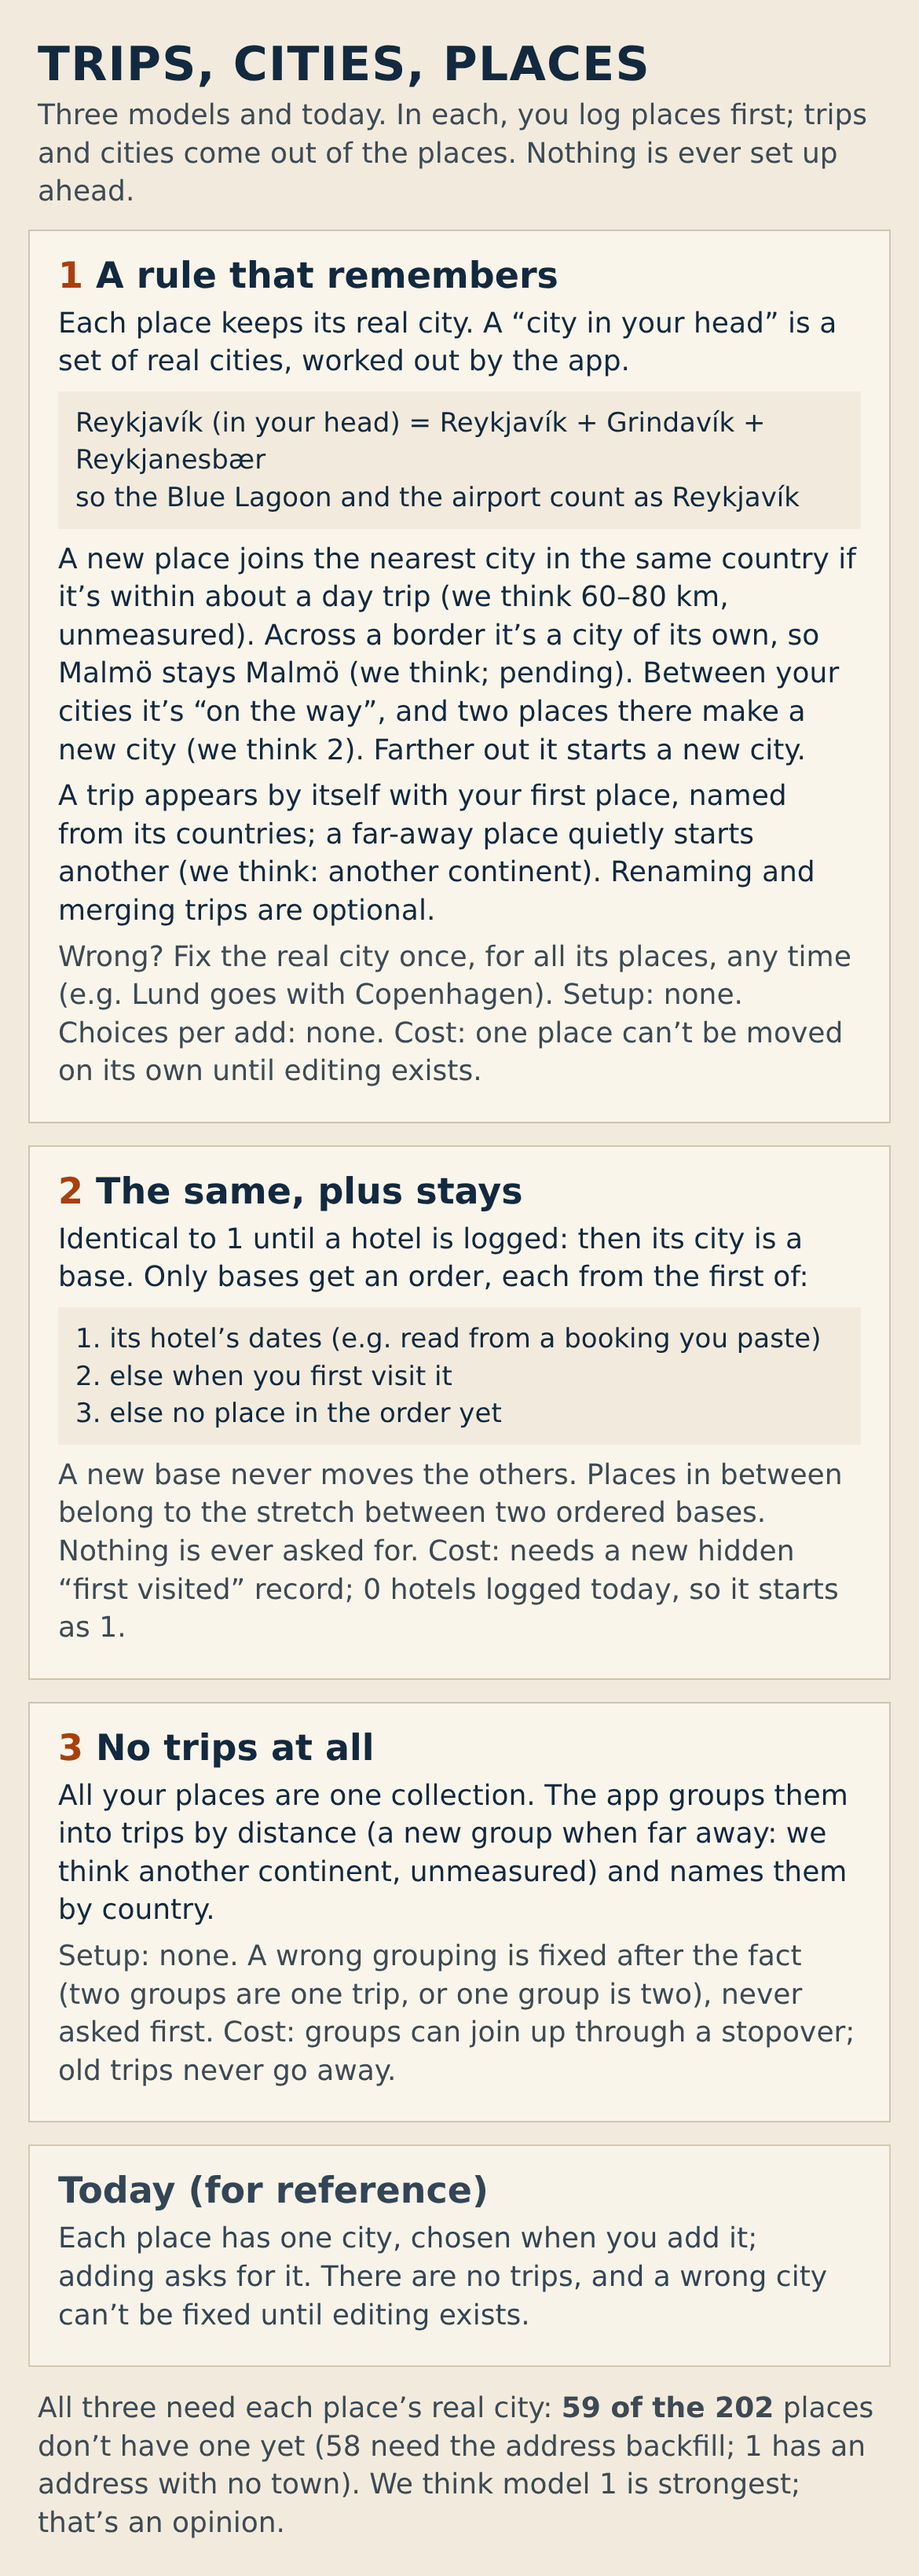
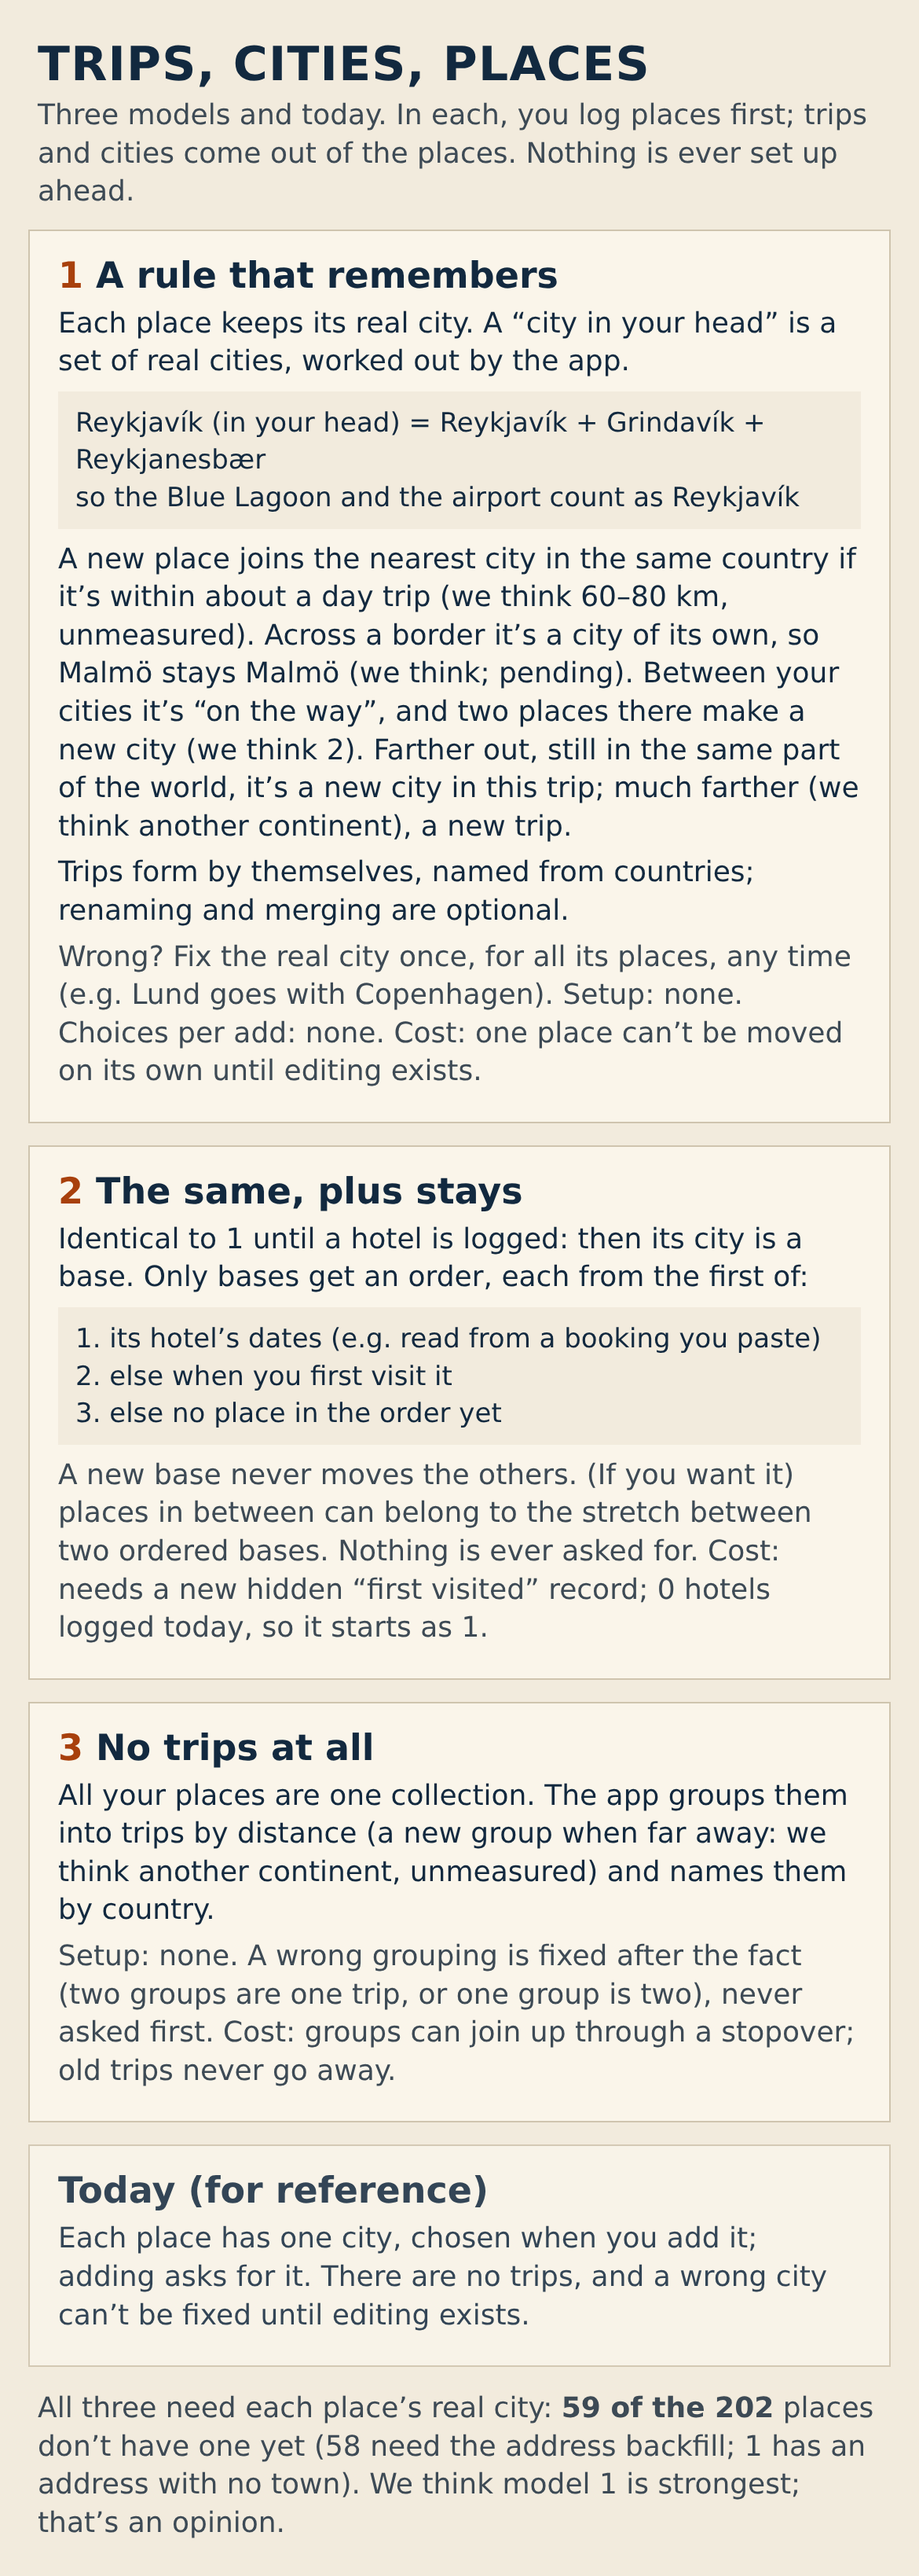
trip-model: Turn 16 overview + legs-off default
Claude-Session: https://claude.ai/code/session_01KJurQQYHfCNMLJBzKaXeDY

Changed region(s): [[0.0615, 0.2801, 0.9231, 0.3735], [0.0615, 0.5603, 0.8923, 0.6536]]

diff --git a/design/trip-location-model/concepts/2-rule-plus-stays.md b/design/trip-location-model/concepts/2-rule-plus-stays.md
@@ -11,7 +11,9 @@ opinion.
 - **Base:** a figure that contains at least one stay.
 - **Order:** an order of the trip's **bases**. It exists only when the
   trip has at least two bases.
-- **Leg:** the stretch between two consecutive *ordered* bases.
+- **Leg (off by default):** the stretch between two consecutive
+  *ordered* bases. It only exists if the owner asks for it in Q4
+  (director, Turn 15).
 
 ## Stored vs. inferred
 
@@ -19,7 +21,7 @@ opinion.
 |---|---|
 | concept 1's | bases (from stays) |
 | a stay's date range, when it has one | the order of the bases (rule below) |
-| per place: **when it was first marked visited** (a new field; today `visited` is yes/no, and `updated_at` can't stand in) | which leg an On-the-way place sits on |
+| per place: **when it was first marked visited** (a new field; today `visited` is yes/no, and `updated_at` can't stand in) | (only with legs on) which leg an On-the-way place sits on |
 
 ## The ordering rule (one source per base, never all-or-nothing)
 
@@ -37,27 +39,25 @@ opinion.
 - Nothing is ever asked for. Dates and visits are things already done
   (where dates come from: jobs.md "Dates").
 
-## Where everything sits once there's an order
+## Where everything sits once there's an order (default: no legs)
 
 - **Bases:** in order.
+- **No-figure places:** stay **On the way**, as in concept 1. There are no
+  legs by default.
 - **A figure that isn't a base** (Malmö with no hotel): it stays a
   figure. It sits right after the ordered base whose anchor is nearest
   to it (it's never folded into that base).
-- **"Between two bases":** a no-figure place sits on the leg whose
-  straight line (anchor to anchor) is nearest to it, if it's within the
-  trip's spread.
-- **A no-figure place on no leg** (only one ordered base, or beyond the
-  first or last base): it stays **On the way**, as in concept 1.
+- **Only if the owner asks for legs (Q4):** a no-figure place sits on
+  the leg whose straight line (anchor to anchor) is nearest to it, within
+  the trip's spread. A no-figure place on no leg (only one ordered base,
+  or beyond the ends) stays On the way.
 - **Views (job 12):** unchanged from concept 1. They're a trip, a
   figure, On the way, or nothing yet.
-  - A leg is **not** a view of its own. Its places are a group inside the
-    trip view, in order between its two bases.
-  - On the way remains a view for the places on no leg.
-
-**Can it be simpler?** Yes, by dropping legs: order bases only, and keep
-every no-figure place in On the way. That costs job 9's "between" being
-specific (Jönköping is just "on the way"), and halves the rules. **(We
-think)** legs are worth it only if the owner answers Q4 with dates.
+  - With legs on, a leg is **not** a view of its own. Its places are a
+    group inside the trip view, in order between its two bases.
+  - On the way remains a view.
+- **(We think)** legs earn their extra rule only if the owner wants a
+  dated order, so they're off unless the owner asks in Q4.
 
 ## What can be corrected, and when
 
@@ -79,7 +79,7 @@ place's figure).
 |---|---|---|---|
 | C7 | A stay, the first (Copenhagen) | Copenhagen is a base. One base, so no order, no legs. Nothing else changes | PASS |
 | C7b | Another stay, another figure, undated, unvisited | That figure is a base with no position. Nothing else moves | PASS |
-| C7c | Bases dated (or first visited) | Those bases take positions; legs run between consecutive ordered bases; On-the-way places nearest a leg move onto it | PASS |
+| C7c | Bases dated (or first visited) | Those bases take positions, and the trip view follows that order. No-figure places stay On the way (with legs on, if the owner asked: on the nearest leg) | PASS |
 | C7d | No dates, the trip under way | Bases take positions as you first visit them | PASS |
 
 ## Test cases
@@ -88,17 +88,18 @@ place's figure).
 |---|---|---|
 | T1 Øresund | As concept 1 | as concept 1 |
 | T2 airports | As concept 1. An airport has a figure, so it's never on a leg | PASS |
-| T3 Jönköping | Copenhagen and Stockholm are consecutive ordered bases → on their leg (it's nearest that line). Otherwise → On the way | PASS |
+| T3 Jönköping | On the way (default). With legs on and Copenhagen and Stockholm as consecutive ordered bases → on their leg | PASS |
 
 ## Jobs (only where they differ from concept 1)
 
 - **2:** the trip view follows the order when there is one.
-- **9:** a leg when ordered; On the way otherwise.
+- **9:** On the way (a leg only if the owner turns legs on).
 - **14:**
   - (a) no stay → identical to concept 1, visits or not;
   - (b) an undated, unvisited stay → a base with no position, nothing
     else moves;
-  - (c) dated (or visited) bases → order and legs.
+  - (c) dated (or visited) bases → an order (legs only if the owner
+    asks).
 
 ## Prerequisite
 
@@ -110,5 +111,7 @@ new "first visited at" field.
 
 3 (hotels as places or frame); 4: "Should the app put your trip in
 order? It could use your hotel dates (read from a booking you paste),
-the order you actually visit places, both, or neither. (We think both,
-with hotel dates first.)" Plus concept 1's.
+the order you actually visit, both, or neither. If it has an order,
+should places in between sit on the stretch between two stays? (We
+think both sources, hotel dates first, and stretches only if you want
+dates.)" Plus concept 1's.

diff --git a/design/trip-location-model/jobs.md b/design/trip-location-model/jobs.md
@@ -80,6 +80,8 @@ team's opinion):
   - only bases are ordered, each by its stays' earliest date, else its
     first visit, else not at all;
   - a leg is the stretch between two consecutive ordered bases.
+    **Legs are off by default**; they exist only if the owner asks for
+    them (Q4, Turn 15).
 
 ## Jobs
 
@@ -114,11 +116,10 @@ team's opinion):
 9. **Places in between have a home.**
    - Check: PASS if a place beyond every reach but inside the spread
      (Jönköping) belongs to a named group, not to an arbitrary figure:
-     - **On the way** (concepts 1 and 3, and concept 2 without an
-       order);
-     - or, in concept 2 with an order, **the leg** whose line between
-       two ordered bases is nearest to it. Places on no leg stay in On
-       the way.
+     - **On the way** (all concepts, by default);
+     - or, only in concept 2 with legs turned on and an order, **the
+       leg** whose line between two ordered bases is nearest to it.
+       Places on no leg stay in On the way.
 10. **Other trips stay out of the way** (concepts 1 and 2), **or
     everything is visible at once** (concept 3).
     - Check (1, 2): PASS if another trip's places never mix into this
@@ -145,8 +146,9 @@ team's opinion):
       not.
     - (b) A new undated, unvisited stay makes its figure a base with no
       position. Nothing else moves.
-    - (c) Bases with a date (or a first visit) take positions in order;
-      legs run between consecutive ordered bases.
+    - (c) Bases with a date (or a first visit) take positions in order.
+      No-figure places stay On the way (legs only if the owner turns
+      them on).
     - No date is ever asked for.
 
 ## Creation moments (each checked against P)
@@ -167,9 +169,9 @@ team's opinion):
 
 | Case | PASS if |
 |---|---|
-| **T1 Øresund:** Saltholm, Kastrup Søbad (both in Tårnby municipality; Saltholm's we believe, not verified) | both are in the Copenhagen figure with nothing chosen, **and** putting Tårnby with Malmö is **one** change that moves both (Malmö must already be a figure: the border signal, or the owner's one fix) |
+| **T1 Øresund:** Saltholm, Kastrup Søbad (both in Tårnby municipality; Saltholm's we believe, not verified) | **Both branches must hold:** (i) **border on:** both are in the Copenhagen figure with nothing chosen; Malmö is already a figure; putting Tårnby with Malmö is **one** change that moves both. (ii) **border off:** both are in the Copenhagen figure with nothing chosen; Malmö first has to be made a figure (one change), then putting Tårnby with Malmö is one more: **two changes**, each moving every place of its real city. FAIL if either branch needs a per-place change |
 | **T2 The airport:** Keflavík (Reykjanesbær, about 50 km from Reykjavík); Kastrup (Tårnby), for both Copenhagen and Malmö | Keflavík is in Reykjavík with nothing chosen. Kastrup is in Copenhagen, **and in Malmö too after one change** (Tårnby in both figures). In concept 2 an airport has a figure, so it's never on a leg |
-| **T3 Jönköping:** about 300 km from both Stockholm and Malmö | it's in **On the way**. In concept 2, with Copenhagen and Stockholm as consecutive ordered bases, it's on their leg. A second Jönköping place makes it a figure (C4) |
+| **T3 Jönköping:** about 300 km from both Stockholm and Malmö | it's in **On the way** (all concepts, by default). Only in concept 2 with legs turned on and Copenhagen and Stockholm as consecutive ordered bases: on their leg. A second Jönköping place makes it a figure (C4) |
 
 Reference (today): it fails P and jobs 1-10 and 13, and passes 11 (list
 and map share the same filtered set) and 12.

diff --git a/design/trip-location-model/jam.md b/design/trip-location-model/jam.md
@@ -1761,3 +1761,39 @@ before the send:
 NEXT: product designer (systems focus) — the overview's three edits and
 the no-legs default in concept 2's file; then the fresh checker re-runs
 the changed ids (T1 both branches).
+
+## Turn 16 -- product designer (systems focus): Turn 15 applied
+
+- **Overview** (`concepts/overview-3x.png`, re-rendered at 1170x3277,
+  checked at phone size):
+  1. Card 1 separates the two distances: "Farther out, still in the same
+     part of the world, it's a new city in this trip; much farther (we
+     think another continent), a new trip."
+  2. Card 1's trip paragraph is one line: "Trips form by themselves,
+     named from countries; renaming and merging are optional." The
+     border sentence keeps "pending".
+  3. Card 2: "(If you want it) places in between can belong to the
+     stretch between two ordered bases."
+- **Concept 2: legs off by default.**
+  - A leg exists only if the owner asks for it in Q4.
+  - No-figure places stay On the way by default.
+  - C7c, T3, and jobs 9 and 14(c) are reworded to match.
+- **Questions:**
+  - Q4 is reworded (the "stretch between two stays" clause added) in
+    concept 2's file;
+  - Q8 (the border) is added to concept 1's open questions (concepts 2
+    and 3 point to concept 1's).
+  - The full list of eight is in Turn 15.
+- **jobs.md:**
+  - Terms: legs are off by default.
+  - Job 9 and T3: On the way by default; a leg only with legs on.
+  - 14(c): an order, no legs unless turned on.
+  - **T1 has both branches:** border on, one change; border off, two
+    changes (make Malmö a figure, then move Tårnby), each per real city
+    and never per place.
+
+**Changed ids for the checker:** 9, 14, C7, T1 (both branches), T3;
+plus concept 2's 2 and 12 (the no-legs default), and the overview.
+
+NEXT: fresh checker — re-run those ids (T1 both branches); then the
+director releases the send.

diff --git a/design/trip-location-model/concepts/1-rule-that-remembers.md b/design/trip-location-model/concepts/1-rule-that-remembers.md
@@ -173,4 +173,9 @@ short-address backfill covers them, they're filed by location alone
 ## Open (owner questions)
 
 1 (fix the rule or one place), 2 (a place in two figures), 6 (a quiet
-new trip), 7 (the threshold of 2).
+new trip), 7 (the threshold of 2), **8 (new):** "When a place is close
+to one of your cities but across a border (Malmö near Copenhagen),
+should it be a city of its own automatically? We think yes. The cost:
+two close cities in one country (Stockholm and Uppsala) count as one
+until you fix it once." (Rule 3, the border, is on in this model as
+sent **(we think)**; the owner's one fix exists either way.)

diff --git a/design/trip-location-model/notes/systems.md b/design/trip-location-model/notes/systems.md
@@ -43,3 +43,4 @@
 - Concept 3: jobs 6/8/13 lines; name survival.
 - Today job 11 PASS (visibleLocations shared; zoom only clusters).
 - jobs.md fully rewritten as model outcomes (no UI strings); the overview cards 1/2 updated (3277 tall).
+- Turn 16: Turn 15 applied (overview 3 edits, re-rendered 3277; concept 2 legs off by default; Q4 reworded + Q8 added; jobs T1 both branches). Changed: 9, 14, C7, T1, T3 (+ concept 2's 2, 12).
